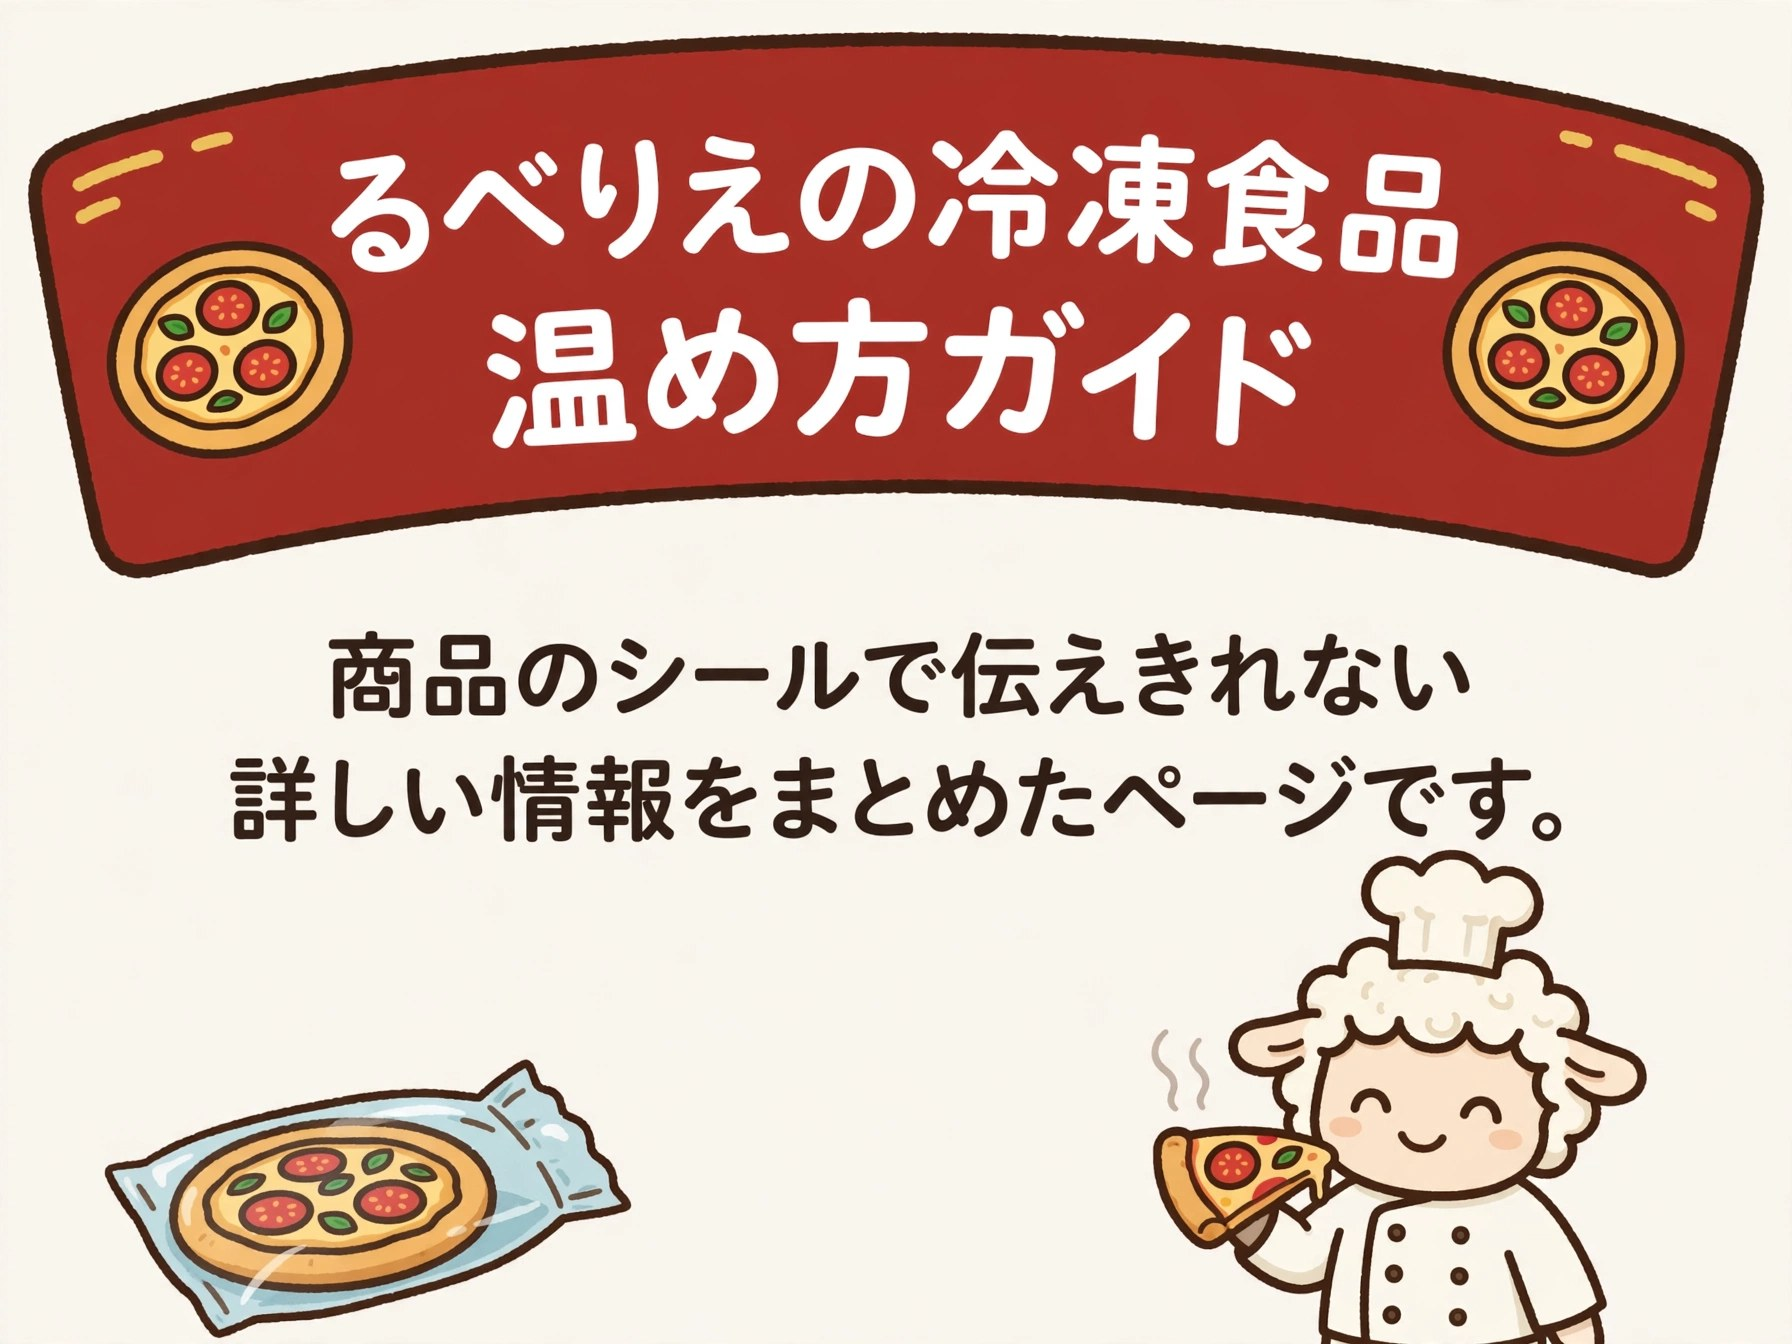
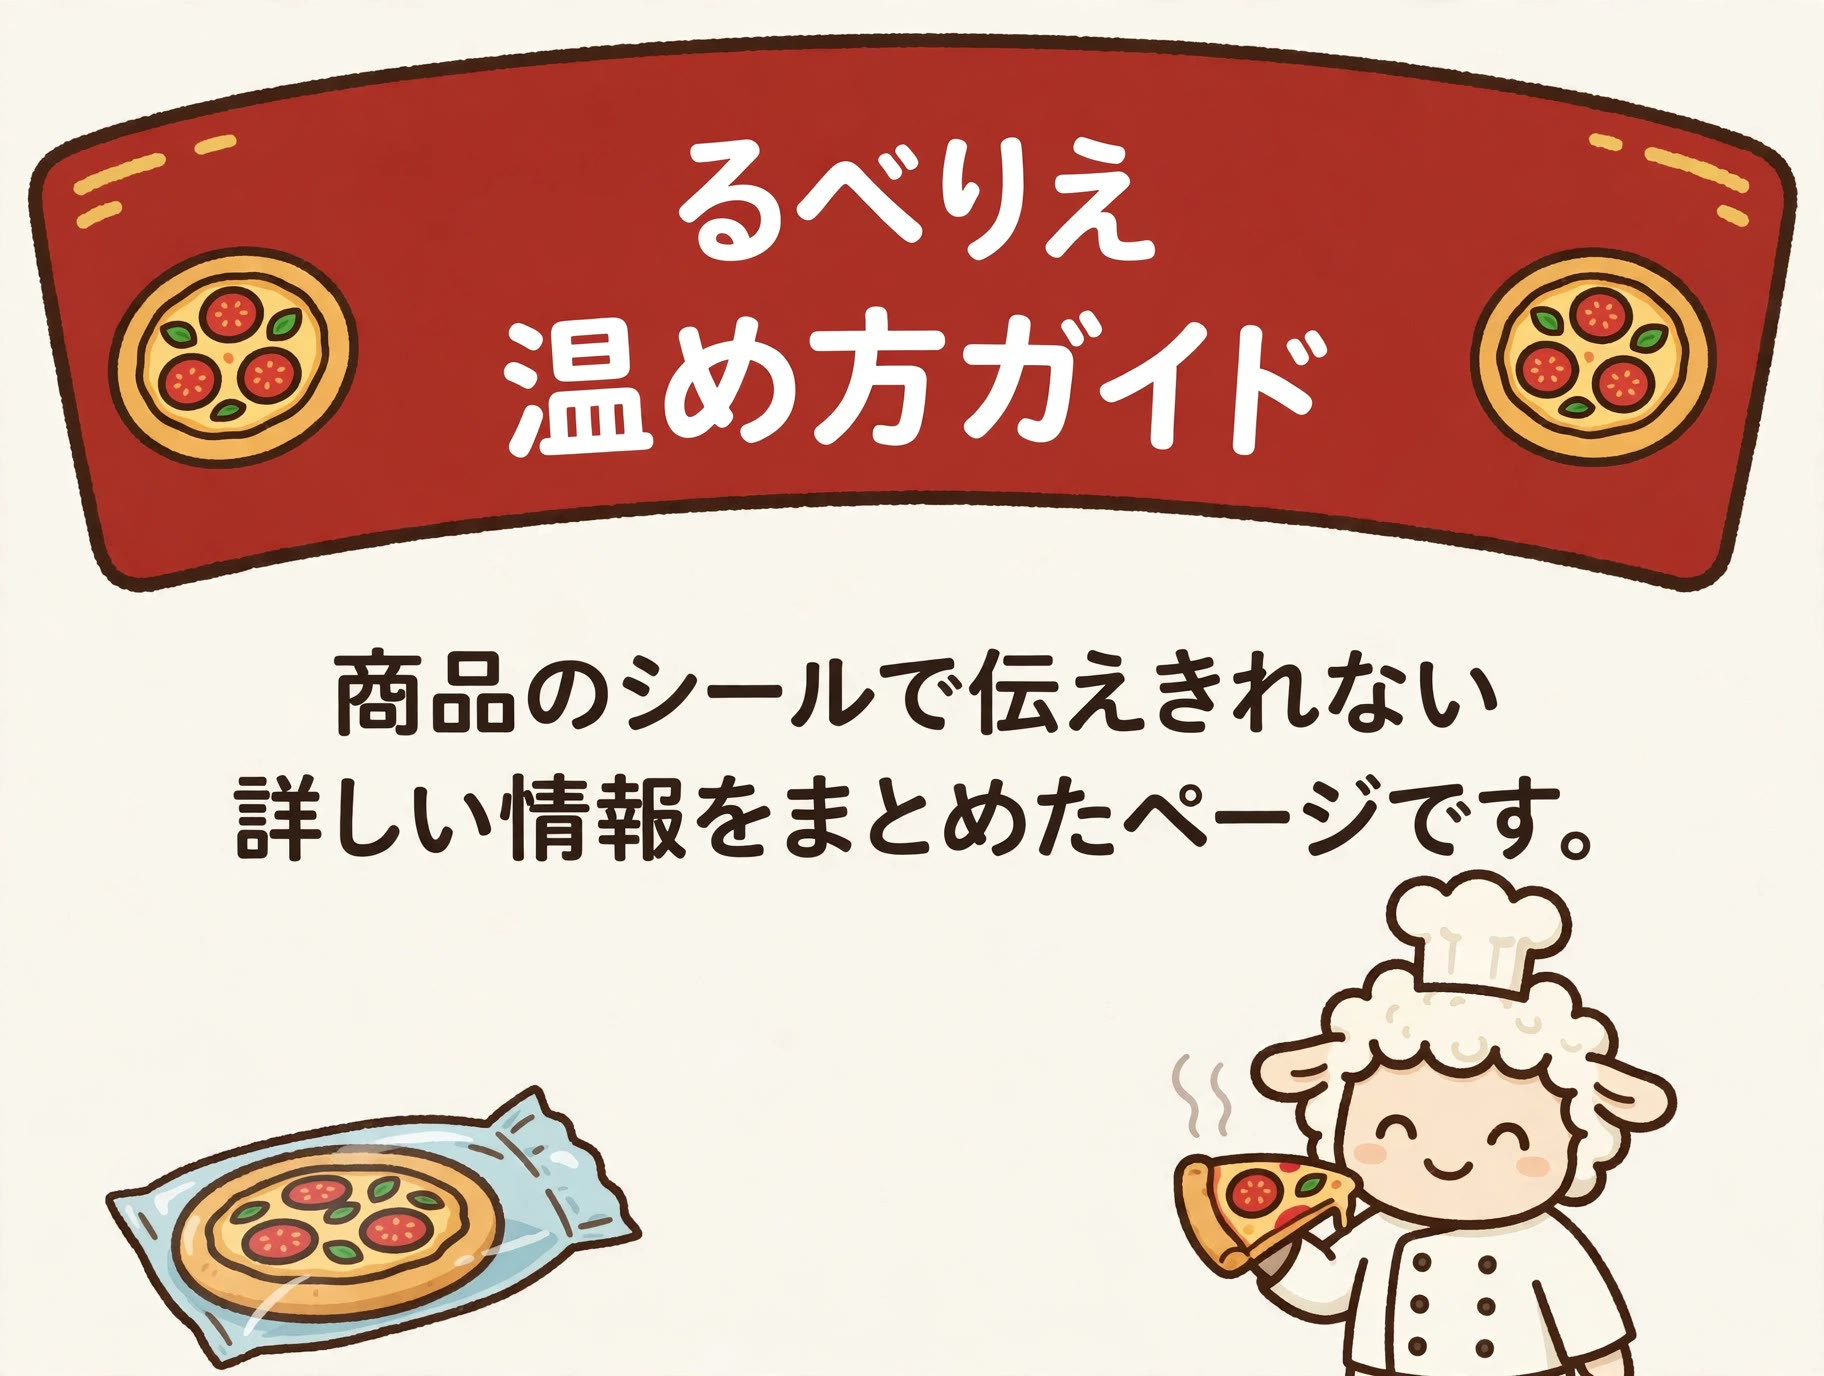
Add dekitate (takeout/delivery) section with mode toggle

diff --git a/index.html b/index.html
@@ -3,7 +3,7 @@
 <head>
 <meta charset="utf-8">
 <meta name="viewport" content="width=device-width, initial-scale=1">
-<title>るべりえの冷凍食品 温め方ガイド</title>
+<title>るべりえ 温め方ガイド</title>
 <style>
 *{box-sizing:border-box}
 .sr-only{position:absolute;width:1px;height:1px;overflow:hidden;clip:rect(0 0 0 0);white-space:nowrap}
@@ -37,15 +37,31 @@ li{margin:4px 0}
 .back{display:block;text-align:center;margin-top:12px;font-size:13px;color:#A33327;font-weight:bold;text-decoration:none}
 footer{text-align:center;font-size:13px;margin-top:28px}
 footer a.btn{display:inline-block;background:#A33327;color:#fff;text-decoration:none;font-weight:bold;border-radius:999px;padding:10px 22px;margin:8px 0}
+.mode{display:flex;gap:8px;margin:14px 0 6px}
+.mode button{flex:1;border:2px solid #A33327;background:#F8F5EF;color:#40312F;border-radius:14px;padding:10px 6px;font-family:inherit;cursor:pointer}
+.mode button .t{display:block;font-size:19px;font-weight:bold;line-height:1.4}
+.mode button .s{display:block;font-size:11.5px;line-height:1.5;margin-top:3px}
+.mode button.on{background:#A33327;color:#fff}
+.tcard{background:#fff;border:1.5px solid #EEE4DA;border-radius:12px;padding:12px 14px;margin:10px 0}
+.tcard h3{margin:0 0 6px;font-size:17px;color:#A33327}
+.tcard p{margin:4px 0}
+.warn{color:#A33327;font-weight:bold}
+.altband{background:#40312F;color:#fff;border-radius:12px;padding:10px 12px;font-size:13.5px;margin:12px 0}
 </style>
 </head>
 <body id="top">
 <div class="wrap">
 
 <header>
-<h1 class="sr-only">るべりえの冷凍食品 温め方ガイド</h1>
-<img class="info" src="header.jpg" alt="るべりえの冷凍食品 温め方ガイド｜商品のシールで伝えきれない詳しい情報をまとめたページです。">
+<h1 class="sr-only">るべりえ 温め方ガイド</h1>
+<img class="info" src="header.jpg" alt="るべりえ 温め方ガイド｜商品のシールで伝えきれない詳しい情報をまとめたページです。">
 </header>
+<p class="note">温めたい商品の状態に合わせて、まず下のボタンで選んでください。<br>冷凍の商品は<b>「冷凍商品」</b>、冷凍ではない、できたての商品は<b>「できたて」</b>です。</p>
+<div class="mode">
+<button type="button" id="btn-frozen" class="on" onclick="setMode('frozen')" aria-selected="true"><span class="t">冷凍商品</span><span class="s">通販・自販機・店頭、どこで買っても冷凍ならこちら</span></button>
+<button type="button" id="btn-fresh" onclick="setMode('fresh')" aria-selected="false"><span class="t">できたて</span><span class="s">テイクアウト・モバイルオーダー・デリバリーで買った、冷凍ではない商品</span></button>
+</div>
+<div id="panel-frozen">
 <p class="note">基本の手順は各商品の絵（インフォグラフィック）を<br>ご覧ください。その下に、家電ごとの代替方法や<br>コツなどの<b>補足</b>を置いています。<br>温め時間は目安です。冷たい場合は調整してください。</p>
 <nav>
 <div class="navrow">
@@ -211,6 +227,34 @@ footer a.btn{display:inline-block;background:#A33327;color:#fff;text-decoration:
 
 <a class="back" href="#top">▲ 入口にもどる</a>
 </section>
+</div>
+<div id="panel-fresh" hidden>
+<section id="takeout">
+<h2>できたての温め方</h2>
+<p>テイクアウト・モバイルオーダー・デリバリーで買った、冷凍ではない商品用です。冷凍商品の方は、上の「冷凍商品」を選んでください。</p>
+<div class="tcard"><h3>① ホールピザ</h3><p>カットせずにトースターへ！表面が<b>グツグツ</b>したら完成。</p><p>※アルミホイルを敷いてください。入らない場合はカットしてください。</p></div>
+<div class="tcard"><h3>② 揚げピザ</h3><p>バーガー袋のままレンジ（600W）で<b>1分</b>＋トースターで<b>サッ</b>！</p><p class="warn">⚠ 温め後はアツアツ！</p><p>⚠ 具材が流れやすいので、火傷とお洋服の汚れにご注意ください。</p></div>
+<div class="tcard"><h3>③ もつ煮</h3><p>器に移してレンジで温め、またはお鍋でグツグツ。</p></div>
+<div class="tcard"><h3>④ クリスピーチキン・ゼッポレ</h3><p>トースターで軽く焼くと、サクサクが復活します！</p></div>
+<div class="altband">トースターがない場合の代替加熱方法：魚焼きグリル・フライパン・ホットプレートで温めてください。</div>
+<a class="back" href="#top">▲ 入口にもどる</a>
+</section>
+</div>
+<script>
+function setMode(m){
+  var f = (m === 'frozen');
+  document.getElementById('panel-frozen').hidden = !f;
+  document.getElementById('panel-fresh').hidden = f;
+  var bf = document.getElementById('btn-frozen');
+  var bt = document.getElementById('btn-fresh');
+  bf.classList.toggle('on', f);
+  bt.classList.toggle('on', !f);
+  bf.setAttribute('aria-selected', f ? 'true' : 'false');
+  bt.setAttribute('aria-selected', f ? 'false' : 'true');
+  if (history.replaceState) { history.replaceState(null, '', f ? location.pathname + location.search : '#takeout'); }
+}
+if (location.hash === '#takeout') { setMode('fresh'); }
+</script>
 <footer>
 <p>美味しく召し上がれますように。</p>
 <a class="btn" href="https://lebelierora.stores.jp" target="_blank" rel="noopener">購入はこちらから（るべりえ ストアーズ）</a>
